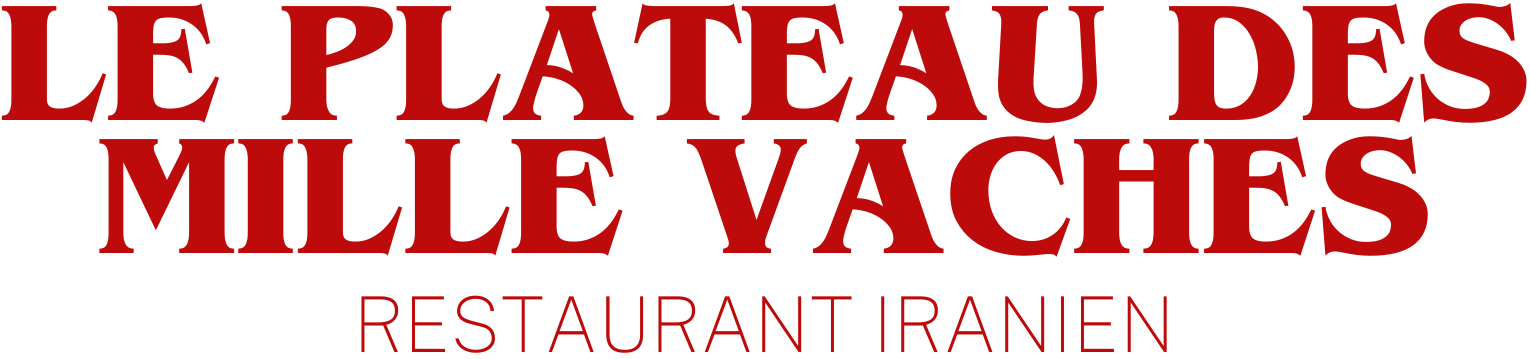
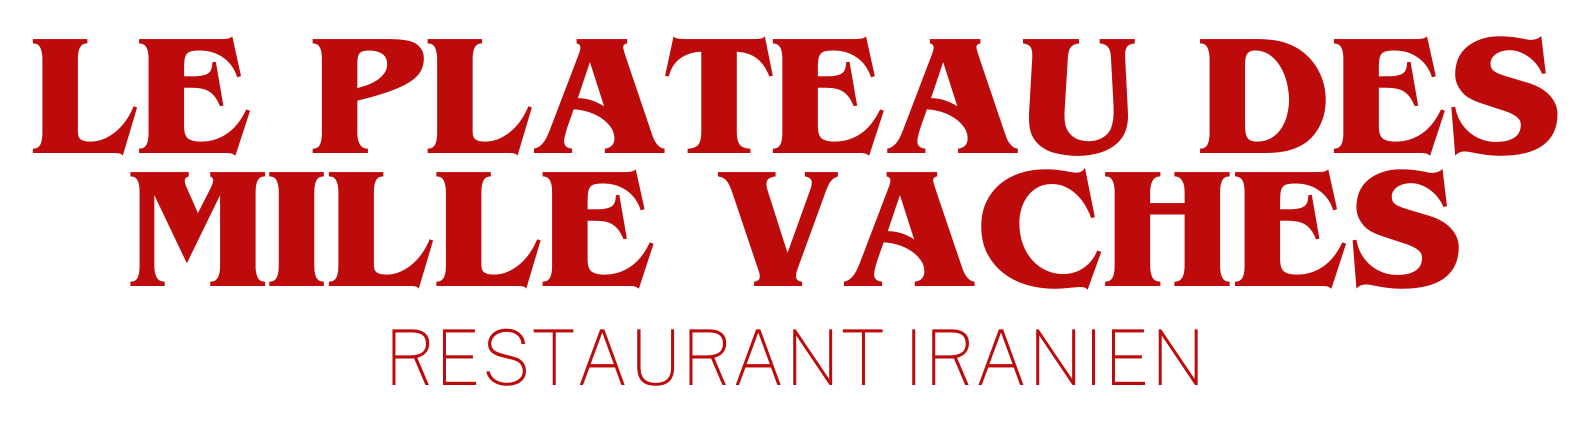
last version

diff --git a/templates/home.html b/templates/home.html
@@ -20,7 +20,7 @@
     </head>
 
     <body>
-        <nav class="navbar navbar-expand-sm bg-body-tertiary pt-3">
+        <nav class="navbar navbar-expand-sm bg-body-white pt-4">
           <div class="container-fluid">
             <button class="navbar-toggler" type="button" data-bs-toggle="collapse" data-bs-target="#navbarTogglerDemo01" aria-controls="navbarTogglerDemo01" aria-expanded="false" aria-label="Toggle navigation">
               <span class="navbar-toggler-icon"></span>
@@ -46,7 +46,14 @@
         
         <div class="container text-center mt-5">
           <div class="container">
-            <img src="../static/lpdmv2.png" alt="logo-title" width="380px">
+            <img src="../static/lpdmv2.png" alt="logo" width="700px" style="background-color: #ffdc4e; border-radius: 5px;">
+          </div>
+          <div class="container w-75 mt-4">
+            <p class="paragraph">Bienvenue au Plateau des Mille Vaches, votre destination culinaire au cœur de Montreuil. 
+                Situé au 89 Rue de Rosny, notre restaurant vous invite à un voyage gustatif à travers les saveurs authentiques de la cuisine iranienne. <br> 
+                Dans un cadre chaleureux et convivial, profitez de notre spacieuse terrasse ombragée, idéale pour des moments de détente en famille ou entre amis. <br> 
+                Notre équipe dévouée s'engage à vous offrir une expérience gastronomique inoubliable, en mettant à l'honneur des plats traditionnels préparés avec des ingrédients frais et de qualité. <br> 
+                Rejoignez-nous pour découvrir une symphonie de saveurs persanes qui éveilleront vos papilles et enrichiront vos sens.</p>
           </div>
         </div>
     </body>

diff --git a/static/styles.css b/static/styles.css
@@ -1,5 +1,5 @@
 @font-face {
-    font-family: 'ITC Benguiat';
+    font-family: 'BenguiatStd-Bold';
     src: url('../fonts/BenguiatStd-Bold.woff2') format('woff2'),
          url('../fonts/BenguiatStd-Bold.woff') format('woff'),
          url('../fonts/BenguiatStd-Bold.ttf') format('truetype');
@@ -8,18 +8,24 @@
 }
 
 @font-face {
-    font-family: 'LeagueSpartan';
-    src: url('../fonts/LeagueSpartan-Medium.ttf') format('truetype');
+    font-family: 'LeagueSpartan-Regular';
+    src: url('../fonts/LeagueSpartan-Regular.ttf') format('truetype');
     font-weight: normal;
     font-style: normal;
 }
 
 .logo-title {
     color: #BD0B0B;
-    font-family: 'ITC Benguiat';
+    font-family: 'BenguiatStd-Bold';
 }
 
 .nav-link-custom {
     color: #BD0B0B;
-    font-family: 'LeagueSpartan';
+    font-family: 'LeagueSpartan-Regular';
+    font-size: large;
+}
+
+.paragraph {
+    font-family: 'LeagueSpartan-Regular';
+    font-size: large;
 }
